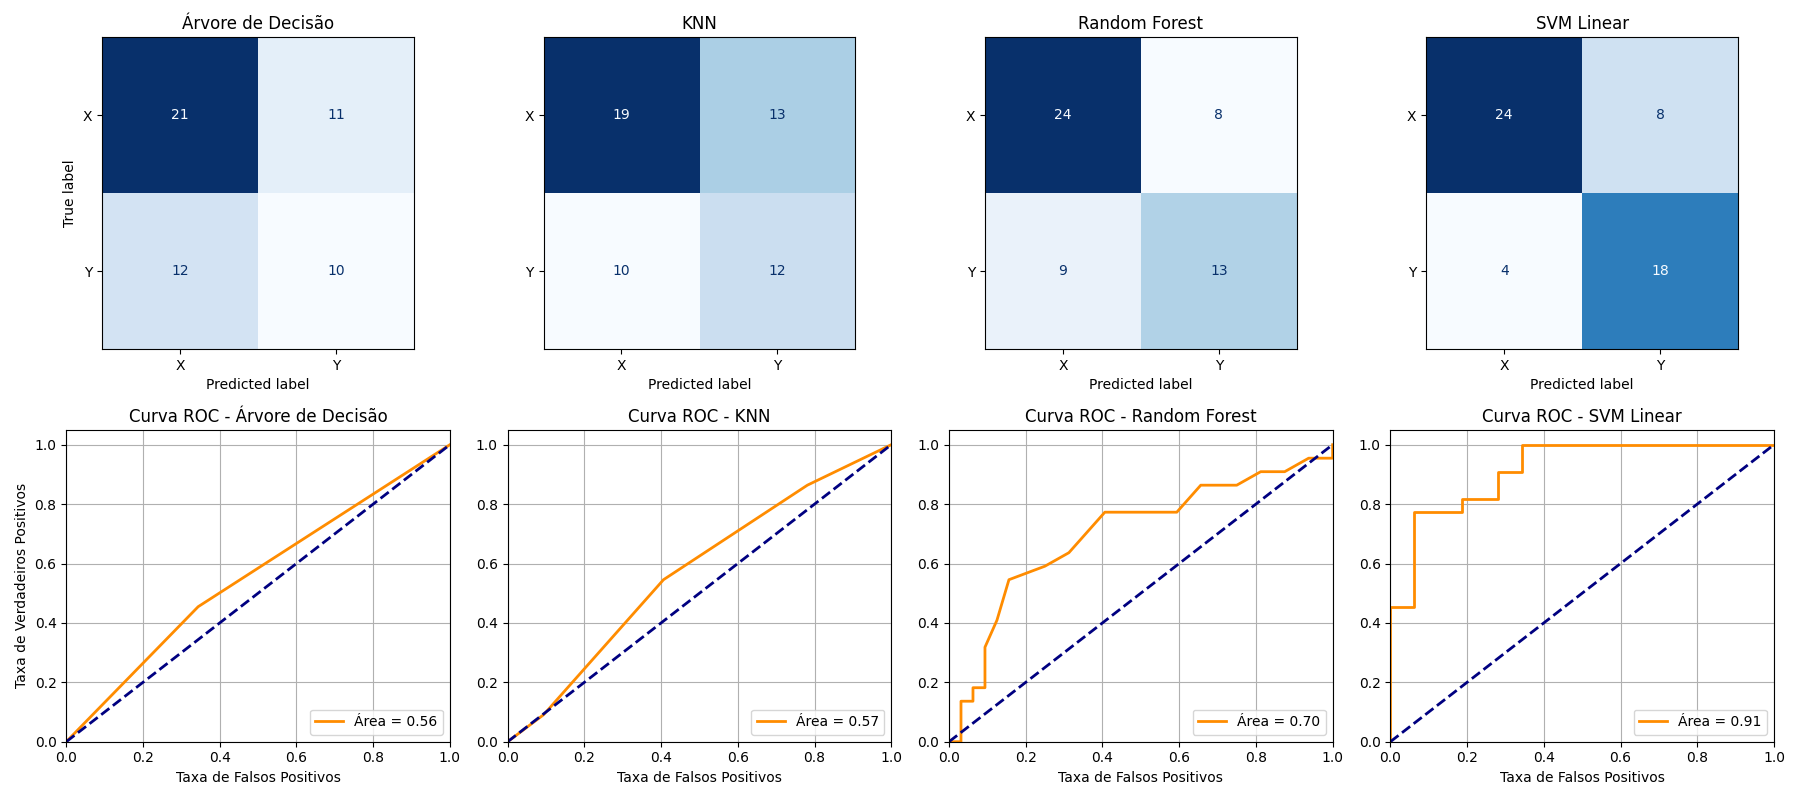
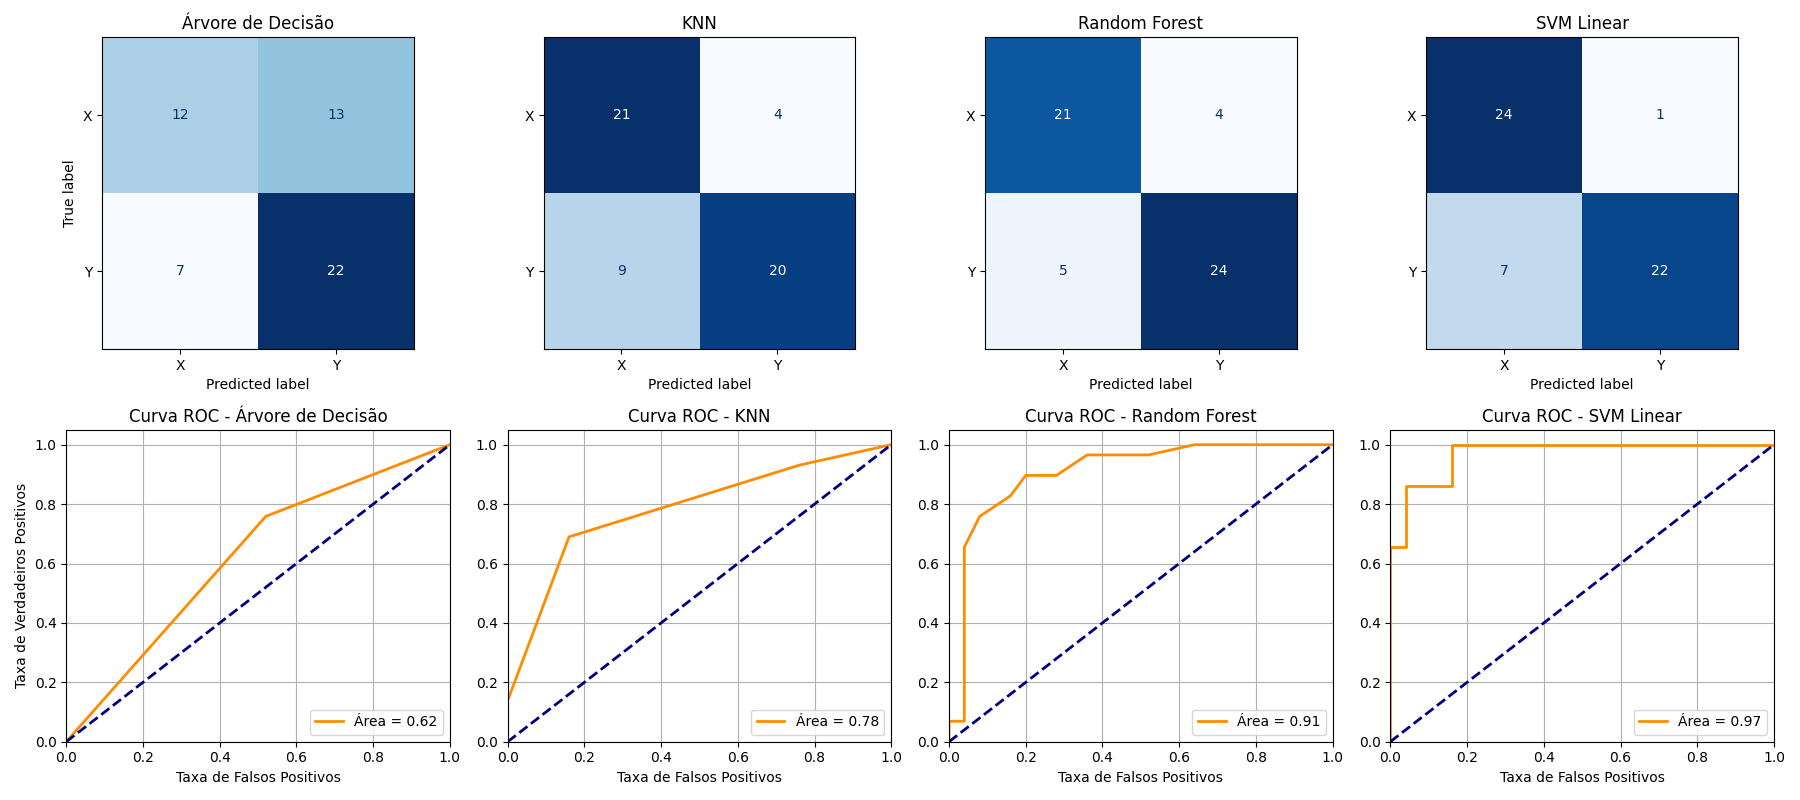
update seed

diff --git a/main.py b/main.py
@@ -66,7 +66,7 @@ seed = 42  # Apenas para garantir reprodutibilidade, None = aleatório
 
 # Treinamento e teste
 X_train, X_test, y_train, y_test = train_test_split(
-    X, y, test_size=0.3, random_state=None
+    X, y, test_size=0.3, random_state=seed
 )
 
 classifiers = {
@@ -90,7 +90,7 @@ for idx, (name, classifier) in enumerate(classifiers.items()):
     if idx != 0:
         axes[0, idx].set_ylabel("")
 
-    # Métricas de avaliação (mantém como está)
+    # Métricas de avaliação
     accuracy = accuracy_score(y_test, y_pred)
     precision = precision_score(y_test, y_pred)
     recall = recall_score(y_test, y_pred)
